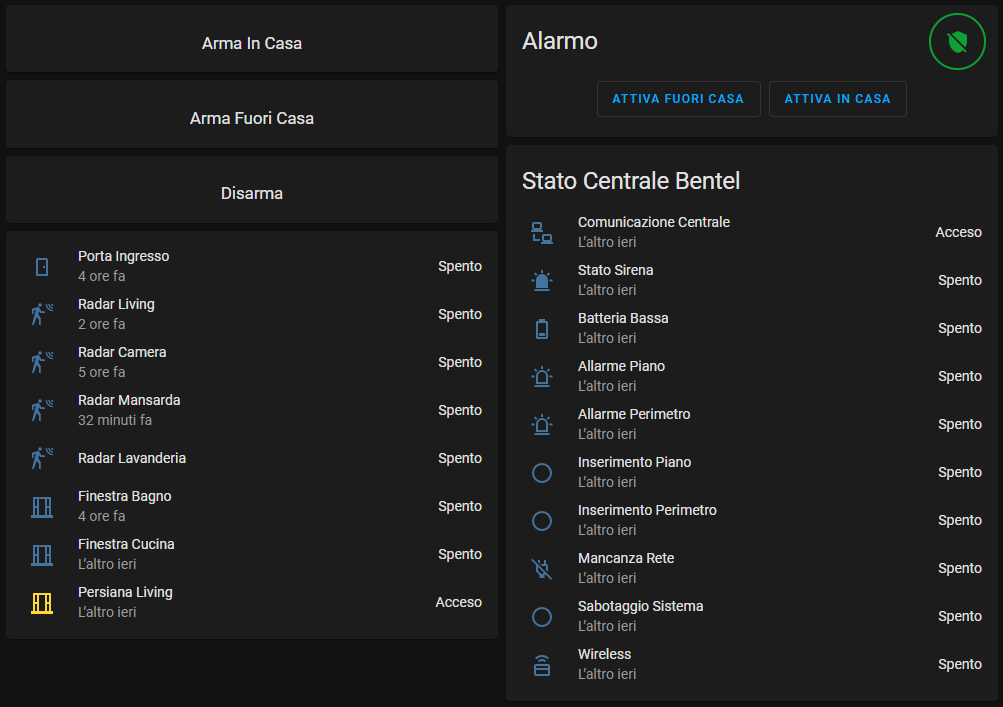
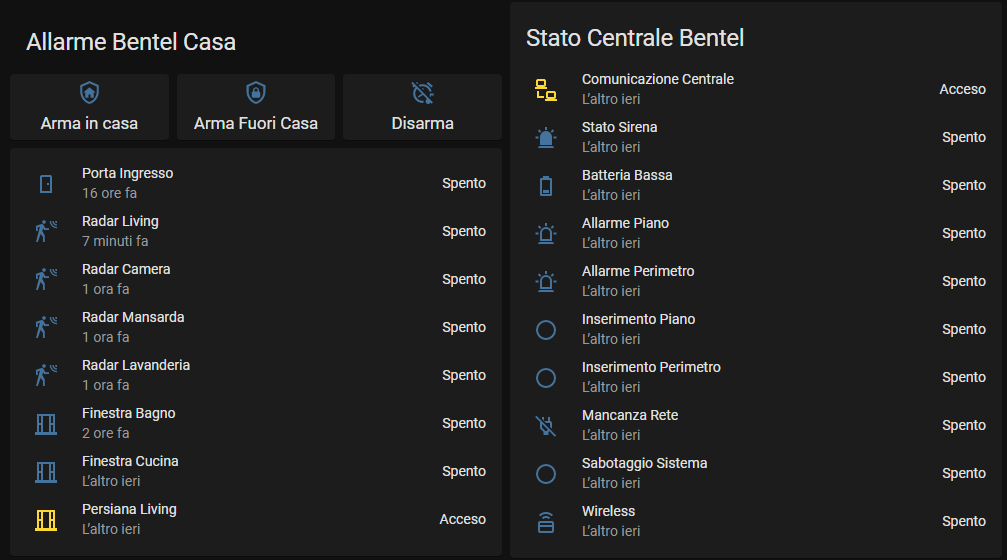
update docs

diff --git a/README.md b/README.md
@@ -2,7 +2,7 @@
 [![buy me a coffee](https://img.shields.io/badge/support-buymeacoffee-222222.svg?style=flat-square)](https://www.buymeacoffee.com/lorenzodeluca)
 
 Serial Bridge for **Bentel Kyo32G Alarm Central**, based on **ESP8266** Board and **ESPHome** Open Source Firmware.
-Thanks to @dario81 for initial porting to ESPHome.
+Thanks to @dario81 for initial porting to ESPHome and to @lcavalli for code refactor inspiration ;)
 
 If you like this project you can support me with :coffee: or simply put a :star: to this repository :blush:
 
@@ -25,10 +25,12 @@ This connector should be connected to the classic **TX/RX of the ESP board** and
 ![Central Connections](https://raw.githubusercontent.com/lorenzo-deluca/espkyogate/master/images/BentelKYO32G-Connections.jpg)
 
 The WeMos can be powered with USB directly from the 12V output of the control unit by connecting any 12V->USB converter.
+Like this one: 
+https://www.amazon.it/FTVOGUE-Regolatore-Trasformatore-Caricabatterie-smartphone/dp/B07NQKBRG1/
 
 Which I recommend because in this way, even in case of power failure, the ESP is powered by the battery of the control unit.
 
-## Firmware Preparation
+## ESPHome Preparation
 The file `espkyogate_configuration.yaml` is already present in this repo.
 I suggest you start from this.
 
@@ -36,6 +38,57 @@ Set your WiFi ssid and password in `wifi` section.
 
 Set `uart` settings in base depending on the board you use, example file is for Wemos D1 mini.
 Finally edit `binary_sensors` you want to see on your Home Assistant as configured in the example file.
+
+Map the available zones in your alarm, adding proper `device_class`. 
+
+```yaml
+binary_sensor:
+  # Zones status
+  - platform: custom
+    lambda: |-
+      auto kyo32 = new Bentel_Kyo32(id(uart_bus));
+      App.register_component(kyo32);
+      return {
+        kyo32->kyo_comunication,
+		&kyo32->zona[0], &kyo32->zona[1],
+		&kyo32->zona[2], &kyo32->zona[3]
+	};
+	
+	binary_sensors:
+	  - id: kyo_comunication
+        name: "Comunicazione Centrale"
+      - id: kyo_zone1
+        name: "Zone 1"
+        device_class: "motion"
+      - id: kyo_zone2
+        name: "Zone 2"
+        device_class: "window"
+      - id: kyo_zone3
+        name: "Zone 3"
+        device_class: "door"
+      - id: kyo_zone4
+        name: "Zone 4"
+        device_class: "garage_door"
+```
+
+Appropriate device classes are (among all device classes supportedf by Home Assistant):
+
+| Device class | Home Assistant icons                                                                                          |
+| ------------ | :-----------------------------------------------------------------------------------------------------------: |
+| motion       | ![mdi-walk](images/icons/mdi-walk.png) ![mdi-run](images/icons/mdi-run.png)                                   |
+| window       | ![mdi-window-closed](images/icons/mdi-window-closed.png) ![mdi-window-open](images/icons/mdi-window-open.png) |
+| door         | ![mdi-door-closed](images/icons/mdi-door-closed.png) ![mdi-door](images/icons/mdi-door.png)                   |
+| garage_door  | ![mdi-garage](images/icons/mdi-garage.png) ![mdi-garage-open](images/icons/mdi-garage-open.png)               |
+
+A `secrets.yaml` file is required with the following keys:
+
+```yaml
+wifi_ssid: "<your-wifi-ssid>"
+wifi_password: "<your-wifi-password>"
+ota_password: "<your-ota-password>"
+api_encryption_key: "<your-encryption-key>"
+```
+
 
 ### Build and Upload Firmware
 
@@ -46,88 +99,85 @@ You should see something similar.
 
 #### From esphome command line
 `python3 -m esphome compile espkyogate_configuration.yaml`
+
 `python3 -m esphome run espkyogate_configuration.yaml`
 
 ##### Check logs
 See logs with this command 
-`python3 -m esphome espkyogate_configuration.yaml logs`
+`python3 -m esphome logs espkyogate_configuration.yaml`
 
 Output should be the same as above.
 
-# Usage
+# Home Assistant Integration
 If everything went well now you should find a new device in Home Assistant, called **espkyogate**.
 Previously configured sensors will be automatically created and associated to the device.
 
 ![ESP Wiring](https://raw.githubusercontent.com/lorenzo-deluca/espkyogate/master/images/HomeAssistant-Lovelace.png)
 
-## Avaiable Services
-These methods will be available in the services
-
-### Area Arm
+Here the code to build this Panel
 ``` yaml
-service: esphome.espkyogate_arm_area
-data:
-  arm_type: 1 (total arm) - 2 (partially arm)
-  area: <area_number>
-  specific_area: 1 (arm <area_number> and disarm others) - 0 (arm only <area_number> without changing the others)
-```
-
-### Area Disarm
-``` yaml
-service: esphome.espkyogate_disarm_area
-data:
-  area: <area_number>
-  specific_area: 1 (disarm all areas) - 0 (disarm only <area_number> without changing the others)
-```
-
-### Reset Alarm Memory
-``` yaml
-service: esphome.espkyogate_reset_alarms
-data: {}
-```
-
-### Activate Output
-If an output is configured as 'Remote Command' (Comando Remoto) you can Activate or Deactivate
-``` yaml
-service: esphome.espkyogate_activate_output
-data:
-  output_number: <output_number>
-```
-
-### Deactivate Output
-If an output is configured as 'Remote Command' (Comando Remoto) you can Activate or Deactivate
-``` yaml
-service: esphome.espkyogate_deactivate_output
-data:
-  output_number: <output_number>
-```
-
-### Arm more than one area
-If you want to arm several areas at the same time you have to call the same service several times, introducing a delay between one call and the next.
-Below is an example of a script that arms two areas.
-``` yaml
-alias: Bentel Arma Fuori Casa
-sequence:
-  - service: esphome.espkyogate_arm_area
-    data:
-      area: 1
-      arm_type: 1
-      specific_area: 1
-  - wait_template: ''
-    timeout: '00:00:05'
-  - service: esphome.espkyogate_arm_area
-    data:
-      area: 2
-      arm_type: 1
-      specific_area: 1
-  - wait_template: ''
-    timeout: '00:00:05'
-  - service: esphome.espkyogate_arm_area
-    data:
-      area: 3
-      arm_type: 1
-      specific_area: 1
-mode: single
+type: vertical-stack
+title: Allarme Bentel Casa
+cards:
+  - type: horizontal-stack
+    cards:
+      - type: button
+        name: Arma in casa
+        tap_action:
+          action: call-service
+          service: esphome.espkyogate_arm_area
+          service_data:
+            arm_type: 1
+            area: 3
+            specific_area: 1
+        show_state: true
+        show_icon: true
+        show_name: true
+        icon: mdi:shield-home-outline
+        icon_height: 25px
+      - type: button
+        name: Arma Fuori Casa
+        tap_action:
+          action: call-service
+          service: script.bentel_arma_fuori_casa
+          service_data: {}
+          target: {}
+        show_icon: true
+        show_state: true
+        icon: mdi:shield-lock-outline
+        icon_height: 25px
+      - type: button
+        name: Disarma
+        tap_action:
+          action: call-service
+          service: esphome.espkyogate_disarm_area
+          service_data:
+            area: 1
+            specific_area: 0
+        show_state: true
+        show_icon: true
+        icon_height: 25px
+        icon: mdi:alarm-note-off
+  - type: entities
+    entities:
+      - entity: binary_sensor.porta_ingresso
+        secondary_info: last-updated
+      - entity: binary_sensor.radar_living
+        secondary_info: last-updated
+      - entity: binary_sensor.radar_camera
+        secondary_info: last-updated
+      - entity: binary_sensor.radar_mansarda
+        secondary_info: last-updated
+      - entity: binary_sensor.radar_lavanderia
+        secondary_info: last-updated
+      - entity: binary_sensor.persiana_bagno
+        secondary_info: last-updated
+      - entity: binary_sensor.persiana_cucina
+        secondary_info: last-updated
+      - entity: binary_sensor.persiana_living
+        secondary_info: last-updated
+    state_color: true
+    show_header_toggle: false
 ```
 
 ## Troubleshooting - FAQ
